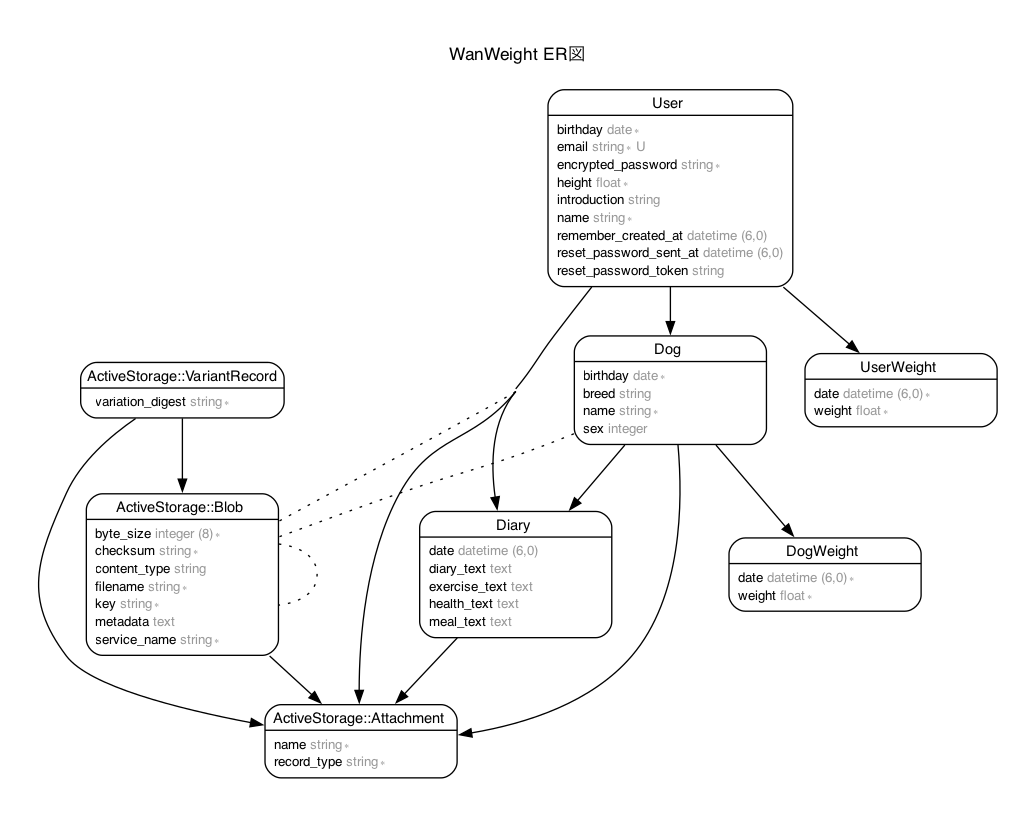
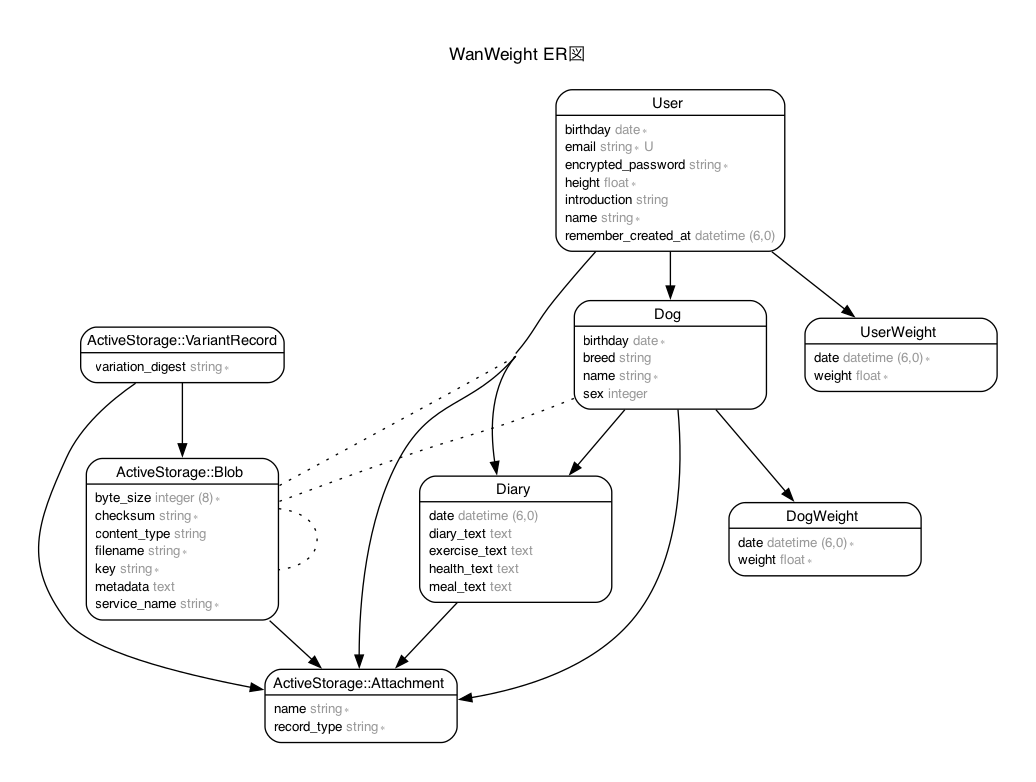
userテーブルから不要なカラムを削除

diff --git a/db/schema.rb b/db/schema.rb
@@ -10,7 +10,7 @@
 #
 # It's strongly recommended that you check this file into your version control system.
 
-ActiveRecord::Schema[7.0].define(version: 2023_11_15_041439) do
+ActiveRecord::Schema[7.0].define(version: 2024_02_26_131326) do
   # These are extensions that must be enabled in order to support this database
   enable_extension "plpgsql"
 
@@ -88,8 +88,6 @@ ActiveRecord::Schema[7.0].define(version: 2023_11_15_041439) do
   create_table "users", force: :cascade do |t|
     t.string "email", default: "", null: false
     t.string "encrypted_password", default: "", null: false
-    t.string "reset_password_token"
-    t.datetime "reset_password_sent_at"
     t.datetime "remember_created_at"
     t.string "name", null: false
     t.date "birthday", null: false
@@ -98,7 +96,6 @@ ActiveRecord::Schema[7.0].define(version: 2023_11_15_041439) do
     t.datetime "updated_at", null: false
     t.float "height"
     t.index ["email"], name: "index_users_on_email", unique: true
-    t.index ["reset_password_token"], name: "index_users_on_reset_password_token", unique: true
   end
 
   add_foreign_key "active_storage_attachments", "active_storage_blobs", column: "blob_id"

diff --git a/db/migrate/20240226131326_remove_reset_password_fields_from_users.rb b/db/migrate/20240226131326_remove_reset_password_fields_from_users.rb
@@ -1,0 +1,6 @@
+class RemoveResetPasswordFieldsFromUsers < ActiveRecord::Migration[7.0]
+  def change
+    remove_column :users, :reset_password_token, :string
+    remove_column :users, :reset_password_sent_at, :datetime
+  end
+end
